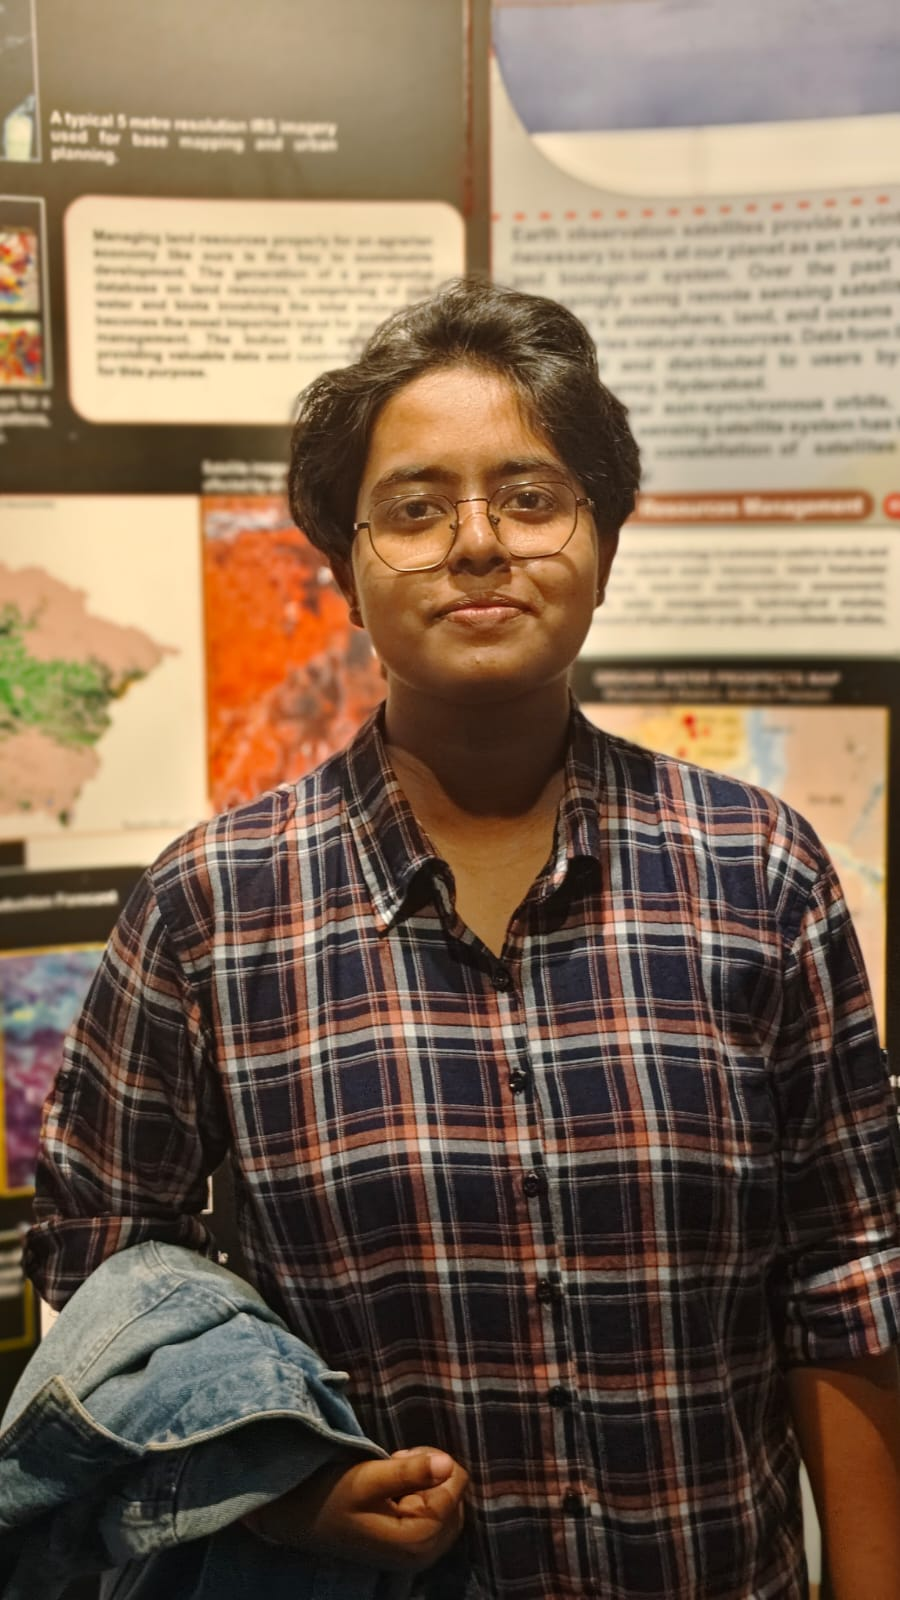
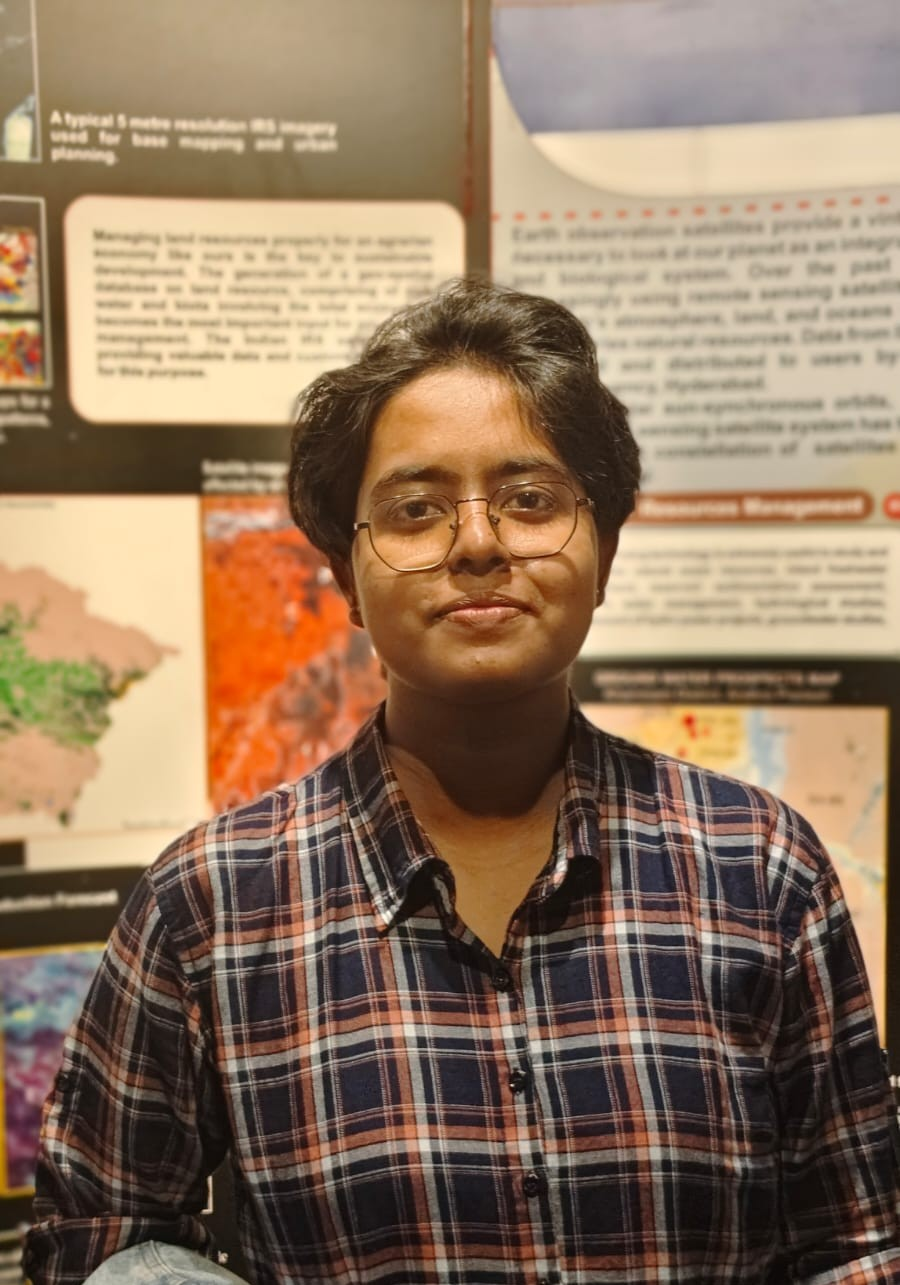
style: changed card size on mobiles

diff --git a/src/components/home/StudentCommittee.tsx b/src/components/home/StudentCommittee.tsx
@@ -492,7 +492,9 @@ function TeamMemberCard({
       {/* Photo */}
       <div
         className={`relative overflow-hidden bg-[#F0EFF2] ${
-          memberCount === 3 ? "aspect-[4/4.5]" : "h-[210px]"
+          memberCount === 3
+            ? "h-[210px] sm:aspect-[4/4.5] sm:h-auto"
+            : "h-[210px]"
         }`}
       >
         {person.image ? (
